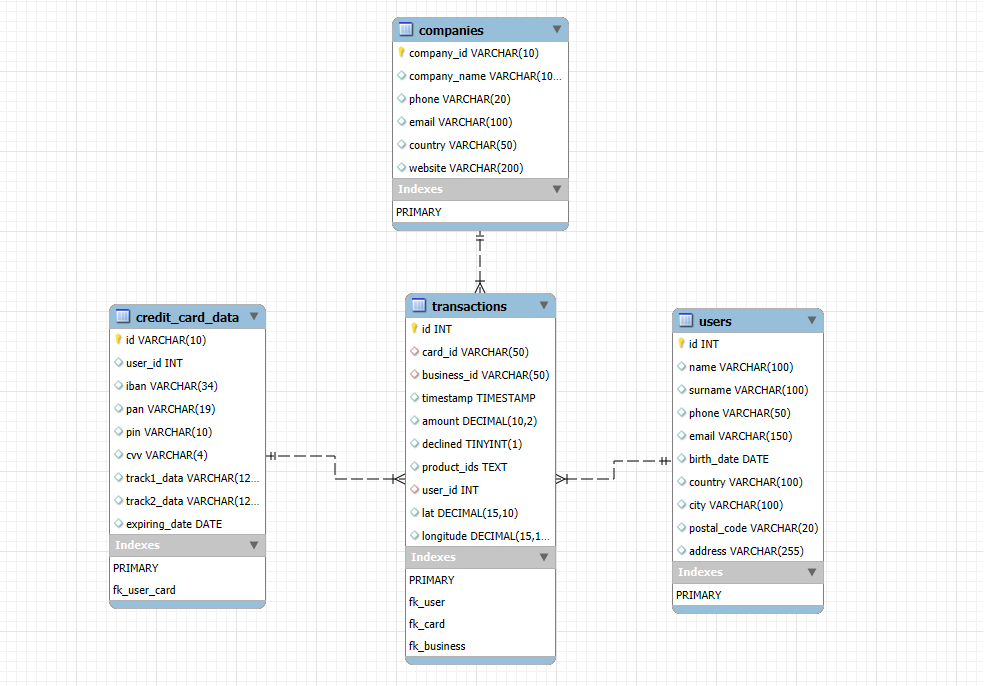
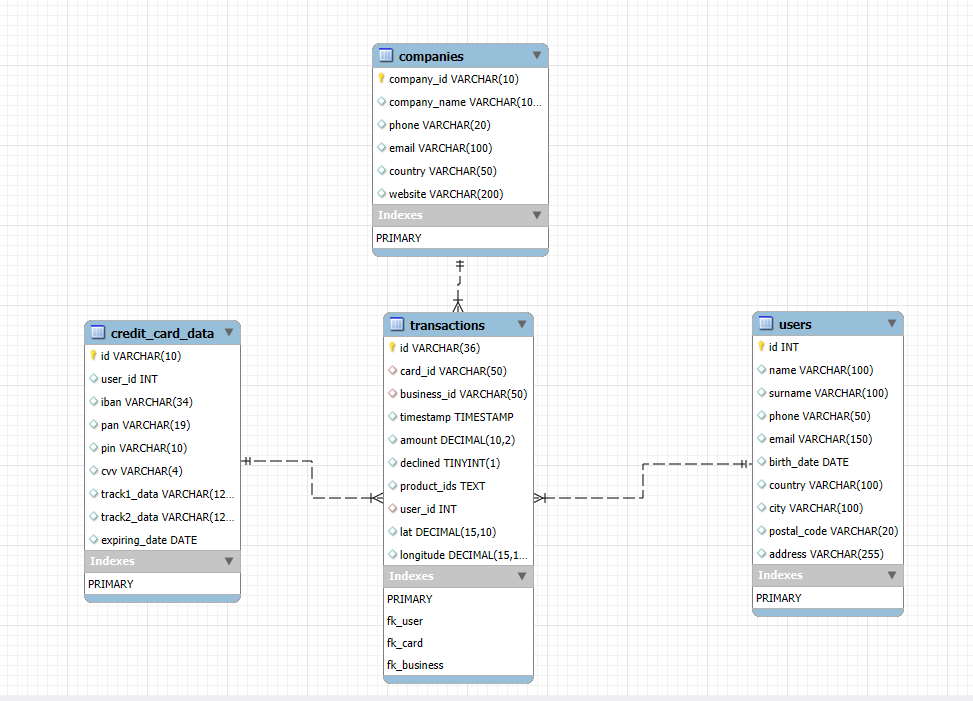
180906

Changed region(s): [[0.0617, 0.0, 0.5858, 0.9796], [0.5242, 0.4286, 0.9558, 0.9184], [0.2467, 0.551, 0.2775, 0.5816]]

diff --git a/sprint4/sprint4.md b/sprint4/sprint4.md
@@ -30,7 +30,7 @@ Tablas Dimensión: usuarios, productos, y tarjetas_credito.
 -- Creacion de la tabla transacciones
 
 CREATE TABLE transactions (
-    id    int NOT NULL,
+    id    VARCHAR(36) NOT NULL  PRIMARY KEY,
     card_id VARCHAR(50),
     business_id VARCHAR(50),
     timestamp TIMESTAMP,
@@ -39,9 +39,8 @@ CREATE TABLE transactions (
     product_ids TEXT, 
     user_id INT,
     lat DECIMAL(15, 10),
-    longitude DECIMAL(15, 10),
-    PRIMARY KEY (id)
-);
+    longitude DECIMAL(15, 10)
+    );
 
 
 ```
@@ -154,40 +153,124 @@ FOREIGN KEY (business_id) REFERENCES companies(company_id);
 
 # Ejercicio 1:
 
-Realiza una subconsulta que muestre a todos los usuarios con más de 30 transacciones utilizando al menos 2 tablas.
-
-## Diseño de la Tabla  `credit_card`
-
-Esta tabla almacena información sobre las tarjetas de creditos involucradas en las transacciones. Contiene los siguientes campos:
-
-### Columnas:
-
-- **id**: Identificador único de la tarjeta de crédito.
-- **iban**: Número IBAN de la tarjeta.
-- **pan**: Número PAN de la tarjeta.
-- **pin**: PIN de la tarjeta.
-- **cvv**: Código CVV de la tarjeta.
-- **expiring_date**: Fecha de vencimiento de la tarjeta.
-
-### Claves y Relaciones:
-
-- **id**: Clave primaria.
+## Realiza una subconsulta que muestre a todos los usuarios con más de 30 transacciones utilizando al menos 2 tablas.
 
 
-## Sql de tabla  `credit_card`
+## Sql de tabla Usuarios con más de 30 transacciones
 
 ```sql
--- Creacion la tabla credit_card
-CREATE TABLE IF NOT EXISTS credit_card (
-    id VARCHAR(15) PRIMARY KEY,
-    iban VARCHAR(34),
-    pan VARCHAR(19),
-    pin VARCHAR(4),
-    cvv VARCHAR(4),
-    expiring_date DATE
-);
-
+-- Usuarios con más de 30 transacciones
+SELECT u.id, u.name, u.surname, COUNT(t.id) AS transaction_count
+FROM users u
+JOIN transactions t ON u.id = t.user_id
+GROUP BY u.id, u.name, u.surname
+HAVING COUNT(t.id) > 30
+LIMIT 0, 5000;
 ```
+
+### Explicacion:
+
+# Explicación del Pseudocódigo
+
+El objetivo de la consulta es obtener una lista de usuarios que han realizado más de 30 transacciones. Para ello, se cuenta la cantidad de transacciones de cada usuario, y solo aquellos usuarios que cumplen con este criterio son incluidos en los resultados. Además, se limita el resultado a un máximo de 5000 registros.
+
+## Pseudocódigo detallado:
+
+1. **Seleccionar columnas relevantes**  
+   - Seleccionamos los datos de los usuarios (`id`, `name`, `surname`).
+   - Contamos cuántas transacciones tiene cada usuario.
+
+2. **Especificar la fuente de datos primaria**  
+   - Usamos la tabla de usuarios (`users`) como fuente principal de la consulta.
+
+3. **Relacionar los datos entre las tablas**  
+   - Unimos la tabla `transactions` con la tabla `users` para relacionar las transacciones con los usuarios.
+   - La relación entre las dos tablas se realiza a través del campo `user_id` en la tabla `transactions`, que debe coincidir con el `id` del usuario en la tabla `users`.
+
+4. **Agrupar los resultados**  
+   - Agrupamos los resultados por usuario, usando `id`, `name` y `surname`.
+   - Esto es necesario para contar cuántas transacciones tiene cada usuario y asegurar que los resultados no se dupliquen.
+
+5. **Filtrar los usuarios que cumplen con una condición**  
+   - Usamos la función `HAVING` para filtrar a los usuarios que tienen más de 30 transacciones, contando las filas de la tabla `transactions` por usuario.
+
+6. **Limitar los resultados**  
+   - Finalmente, limitamos la cantidad de resultados a un máximo de 5000 usuarios para optimizar la consulta y evitar sobrecargar el sistema.
+
+## Pseudocódigo paso a paso:
+
+1. **Inicio de la consulta**  
+   - Definir las columnas a seleccionar:
+     - `u.id`: el identificador único del usuario.
+     - `u.name`: el nombre del usuario.
+     - `u.surname`: el apellido del usuario.
+     - `COUNT(t.id)`: el conteo de transacciones realizadas por ese usuario, usando el campo `id` de la tabla `transactions`.
+
+    ```sql
+    SELECT u.id, u.name, u.surname, COUNT(t.id) AS transaction_count
+    ```
+
+2. **Especificar la tabla base (tabla `users`)**  
+   - Utilizamos la tabla `users` como la tabla principal, a la que se le hará uniones para obtener más datos relacionados.
+
+    ```sql
+    FROM users u
+    ```
+
+3. **Realizar la unión (JOIN) con la tabla `transactions`**  
+   - Unimos la tabla `transactions` con la tabla `users` mediante una relación en la cual el `user_id` en la tabla `transactions` es igual al `id` del usuario en la tabla `users`.
+
+    ```sql
+    JOIN transactions t ON u.id = t.user_id
+    ```
+
+4. **Agrupar los datos por usuario (GROUP BY)**  
+   - Agrupamos los resultados para que cada fila en el resultado corresponda a un usuario único. Esto nos permitirá contar las transacciones de cada usuario.
+
+    ```sql
+    GROUP BY u.id, u.name, u.surname
+    ```
+
+5. **Filtrar usuarios con más de 30 transacciones (HAVING)**  
+   - Usamos la cláusula `HAVING` para filtrar a aquellos usuarios cuyo número de transacciones (contadas en el paso anterior) sea mayor a 30.
+
+    ```sql
+    HAVING COUNT(t.id) > 30
+    ```
+
+6. **Limitar el número de resultados (LIMIT)**  
+   - Limitamos el número de resultados a 5000, comenzando desde el primer resultado. Esto mejora el rendimiento y evita sobrecargar el sistema si hay muchos usuarios.
+
+    ```sql
+    LIMIT 0, 5000;
+    ```
+
+## Explicación de cada paso:
+
+1. **Seleccionar las columnas**:
+   - Se seleccionan las columnas `id`, `name` y `surname` de los usuarios.
+   - Se cuenta cuántas transacciones (`t.id`) tiene cada usuario usando `COUNT(t.id)` y se le da el alias `transaction_count`.
+
+2. **Tabla principal (`FROM users`)**:
+   - La tabla `users` es la fuente principal de datos para la consulta.
+
+3. **Unión (JOIN)**:
+   - Se realiza un `JOIN` para unir la tabla `users` con `transactions`, relacionando el `user_id` en `transactions` con el `id` de la tabla `users`.
+
+4. **Agrupación (`GROUP BY`)**:
+   - Se agrupan los resultados por los campos `id`, `name` y `surname` del usuario. Esto garantiza que cada usuario tenga una única fila en el resultado.
+
+5. **Filtro (`HAVING`)**:
+   - Se usa la cláusula `HAVING` para filtrar aquellos usuarios cuyo conteo de transacciones sea mayor a 30.
+
+6. **Limitación de resultados (`LIMIT`)**:
+   - Finalmente, se usa `LIMIT` para restringir el número de usuarios devueltos a un máximo de 5000 filas, optimizando el rendimiento.
+
+
+![Sql  usuarios con más de 30 transacciones](https://github.com/ciberzerone/it_Academy_Data_Scientist/blob/main/sprint4/imagen/eje08.PNG)
+
+
+
 ## Introducir la data en la  `credit_card`
 Al insertar los datos, arroja un error por el formato de los datos expiring_date, una solucion podria ser utilizar varchar, pero se utizo STR_TO_DATE(cadena, formato) que convierte los datos de una cadena a un formato de fecha
 
